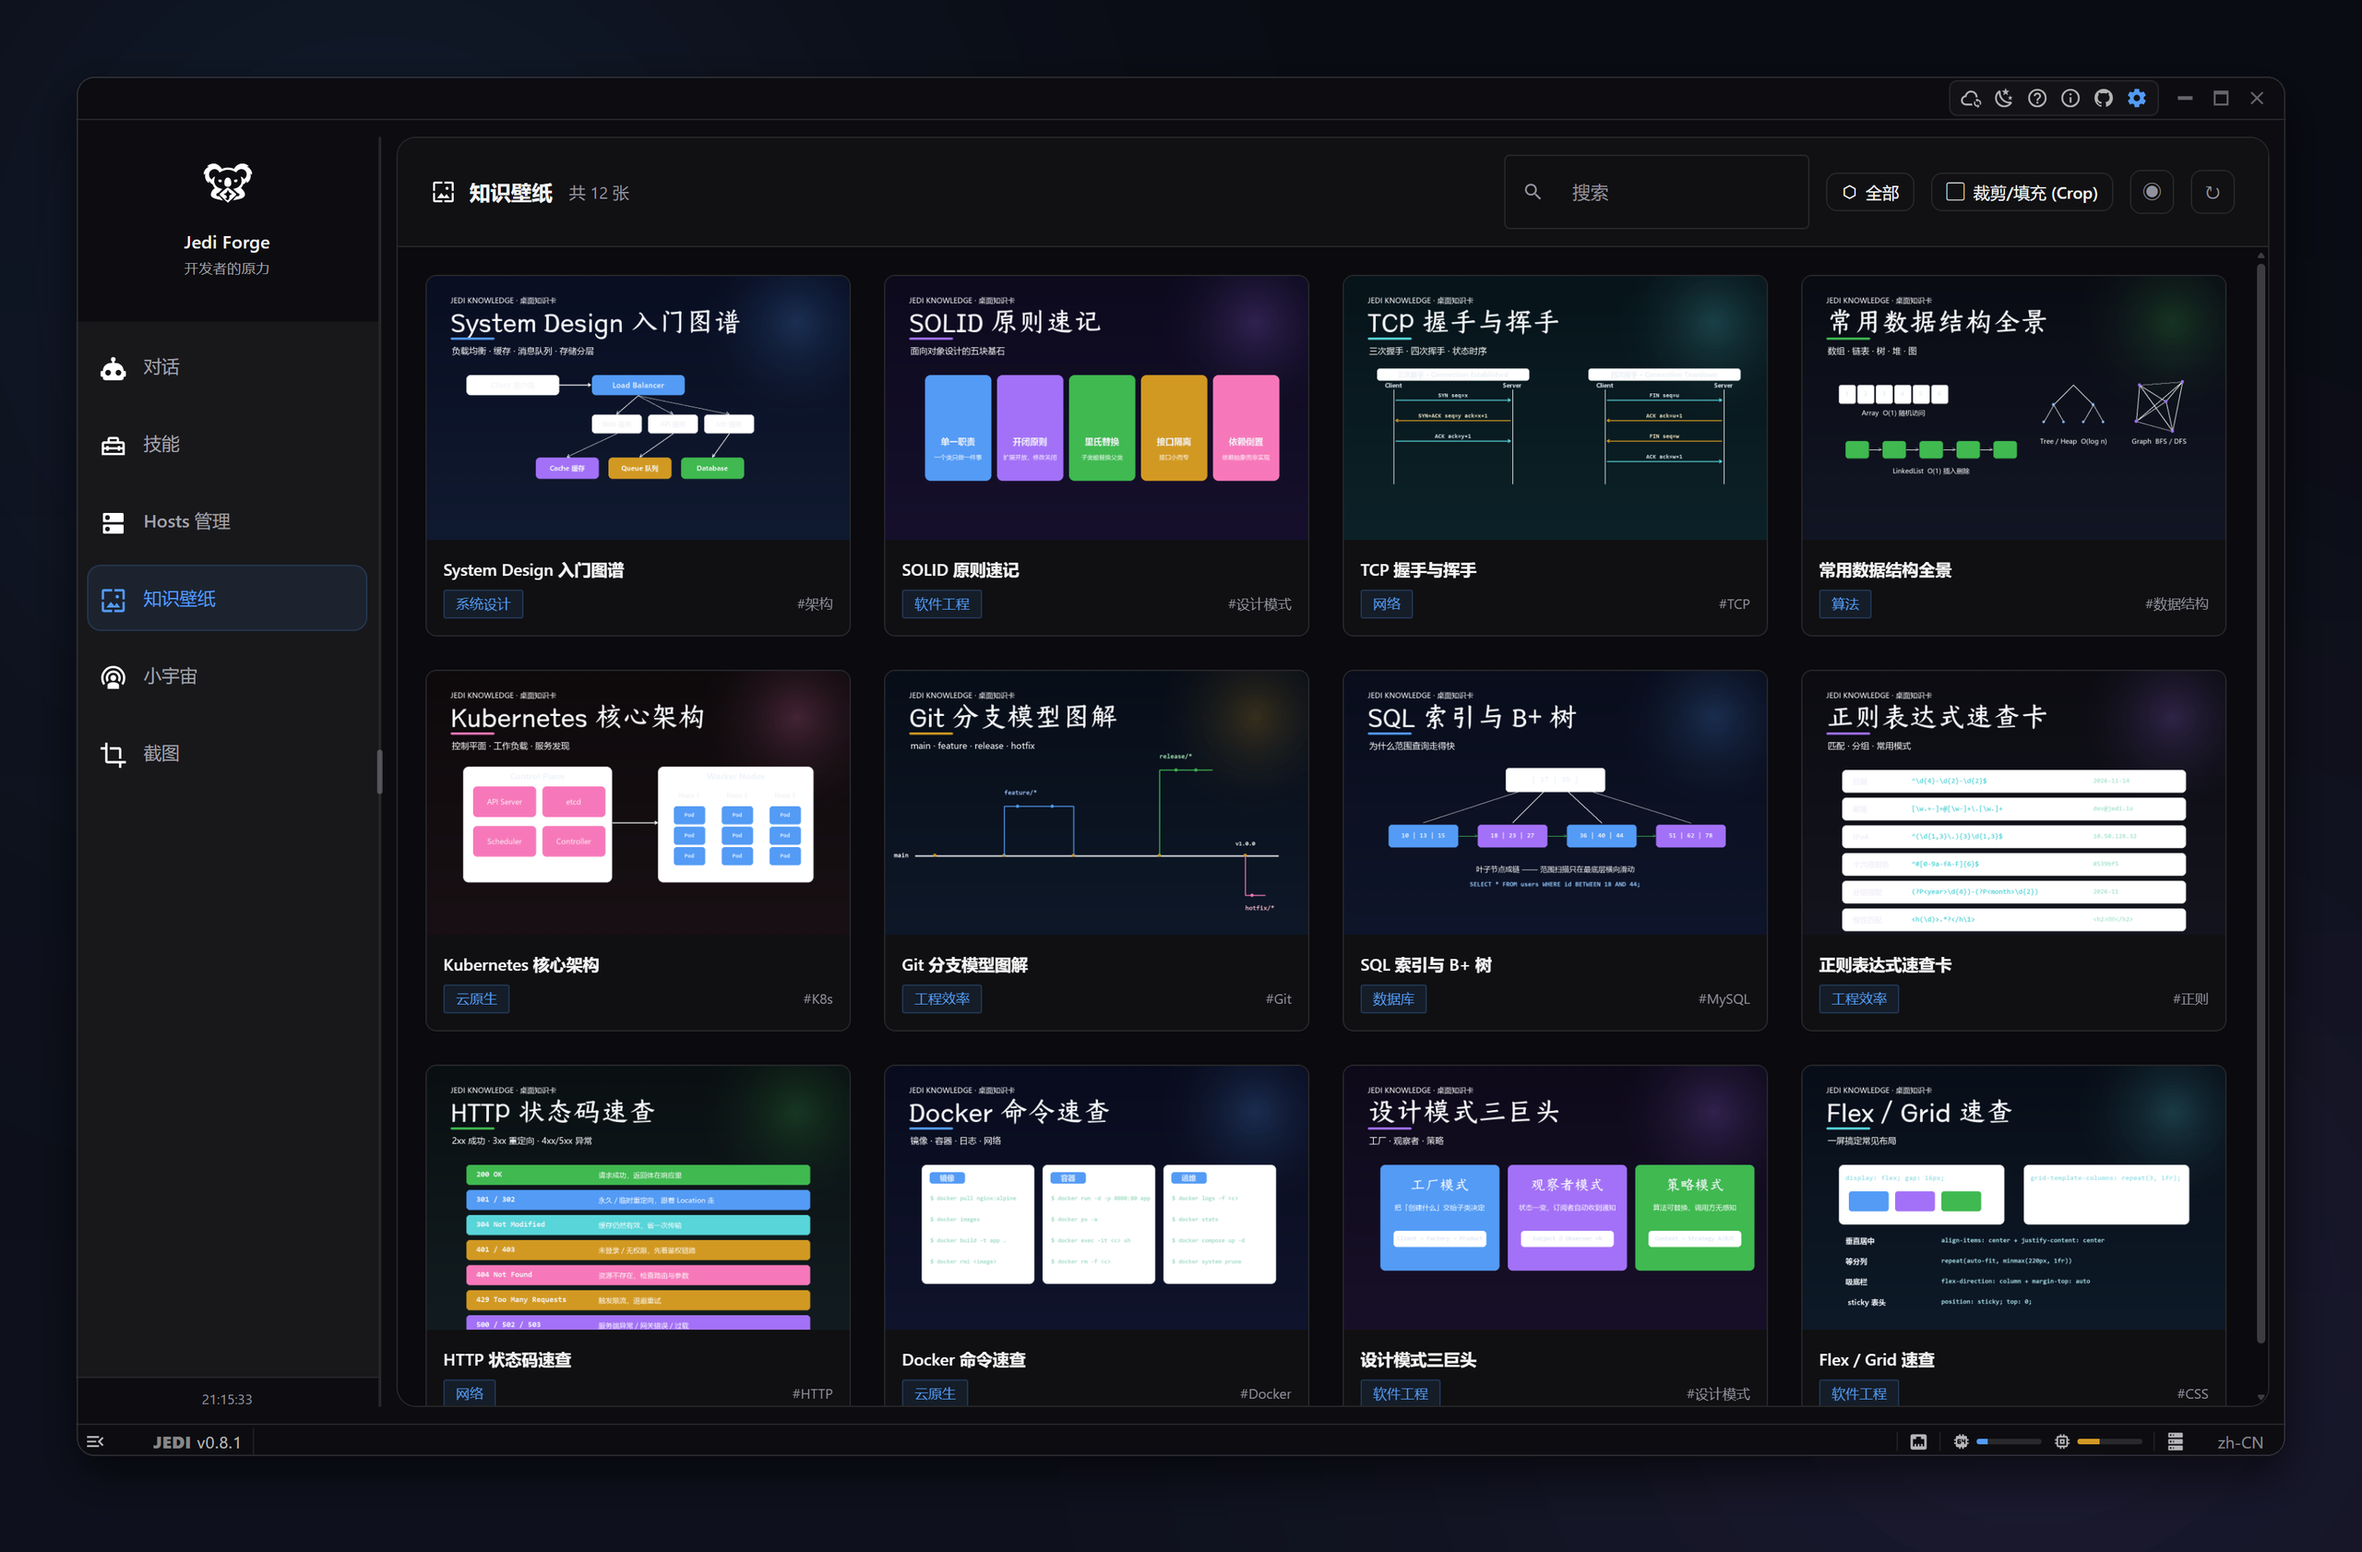
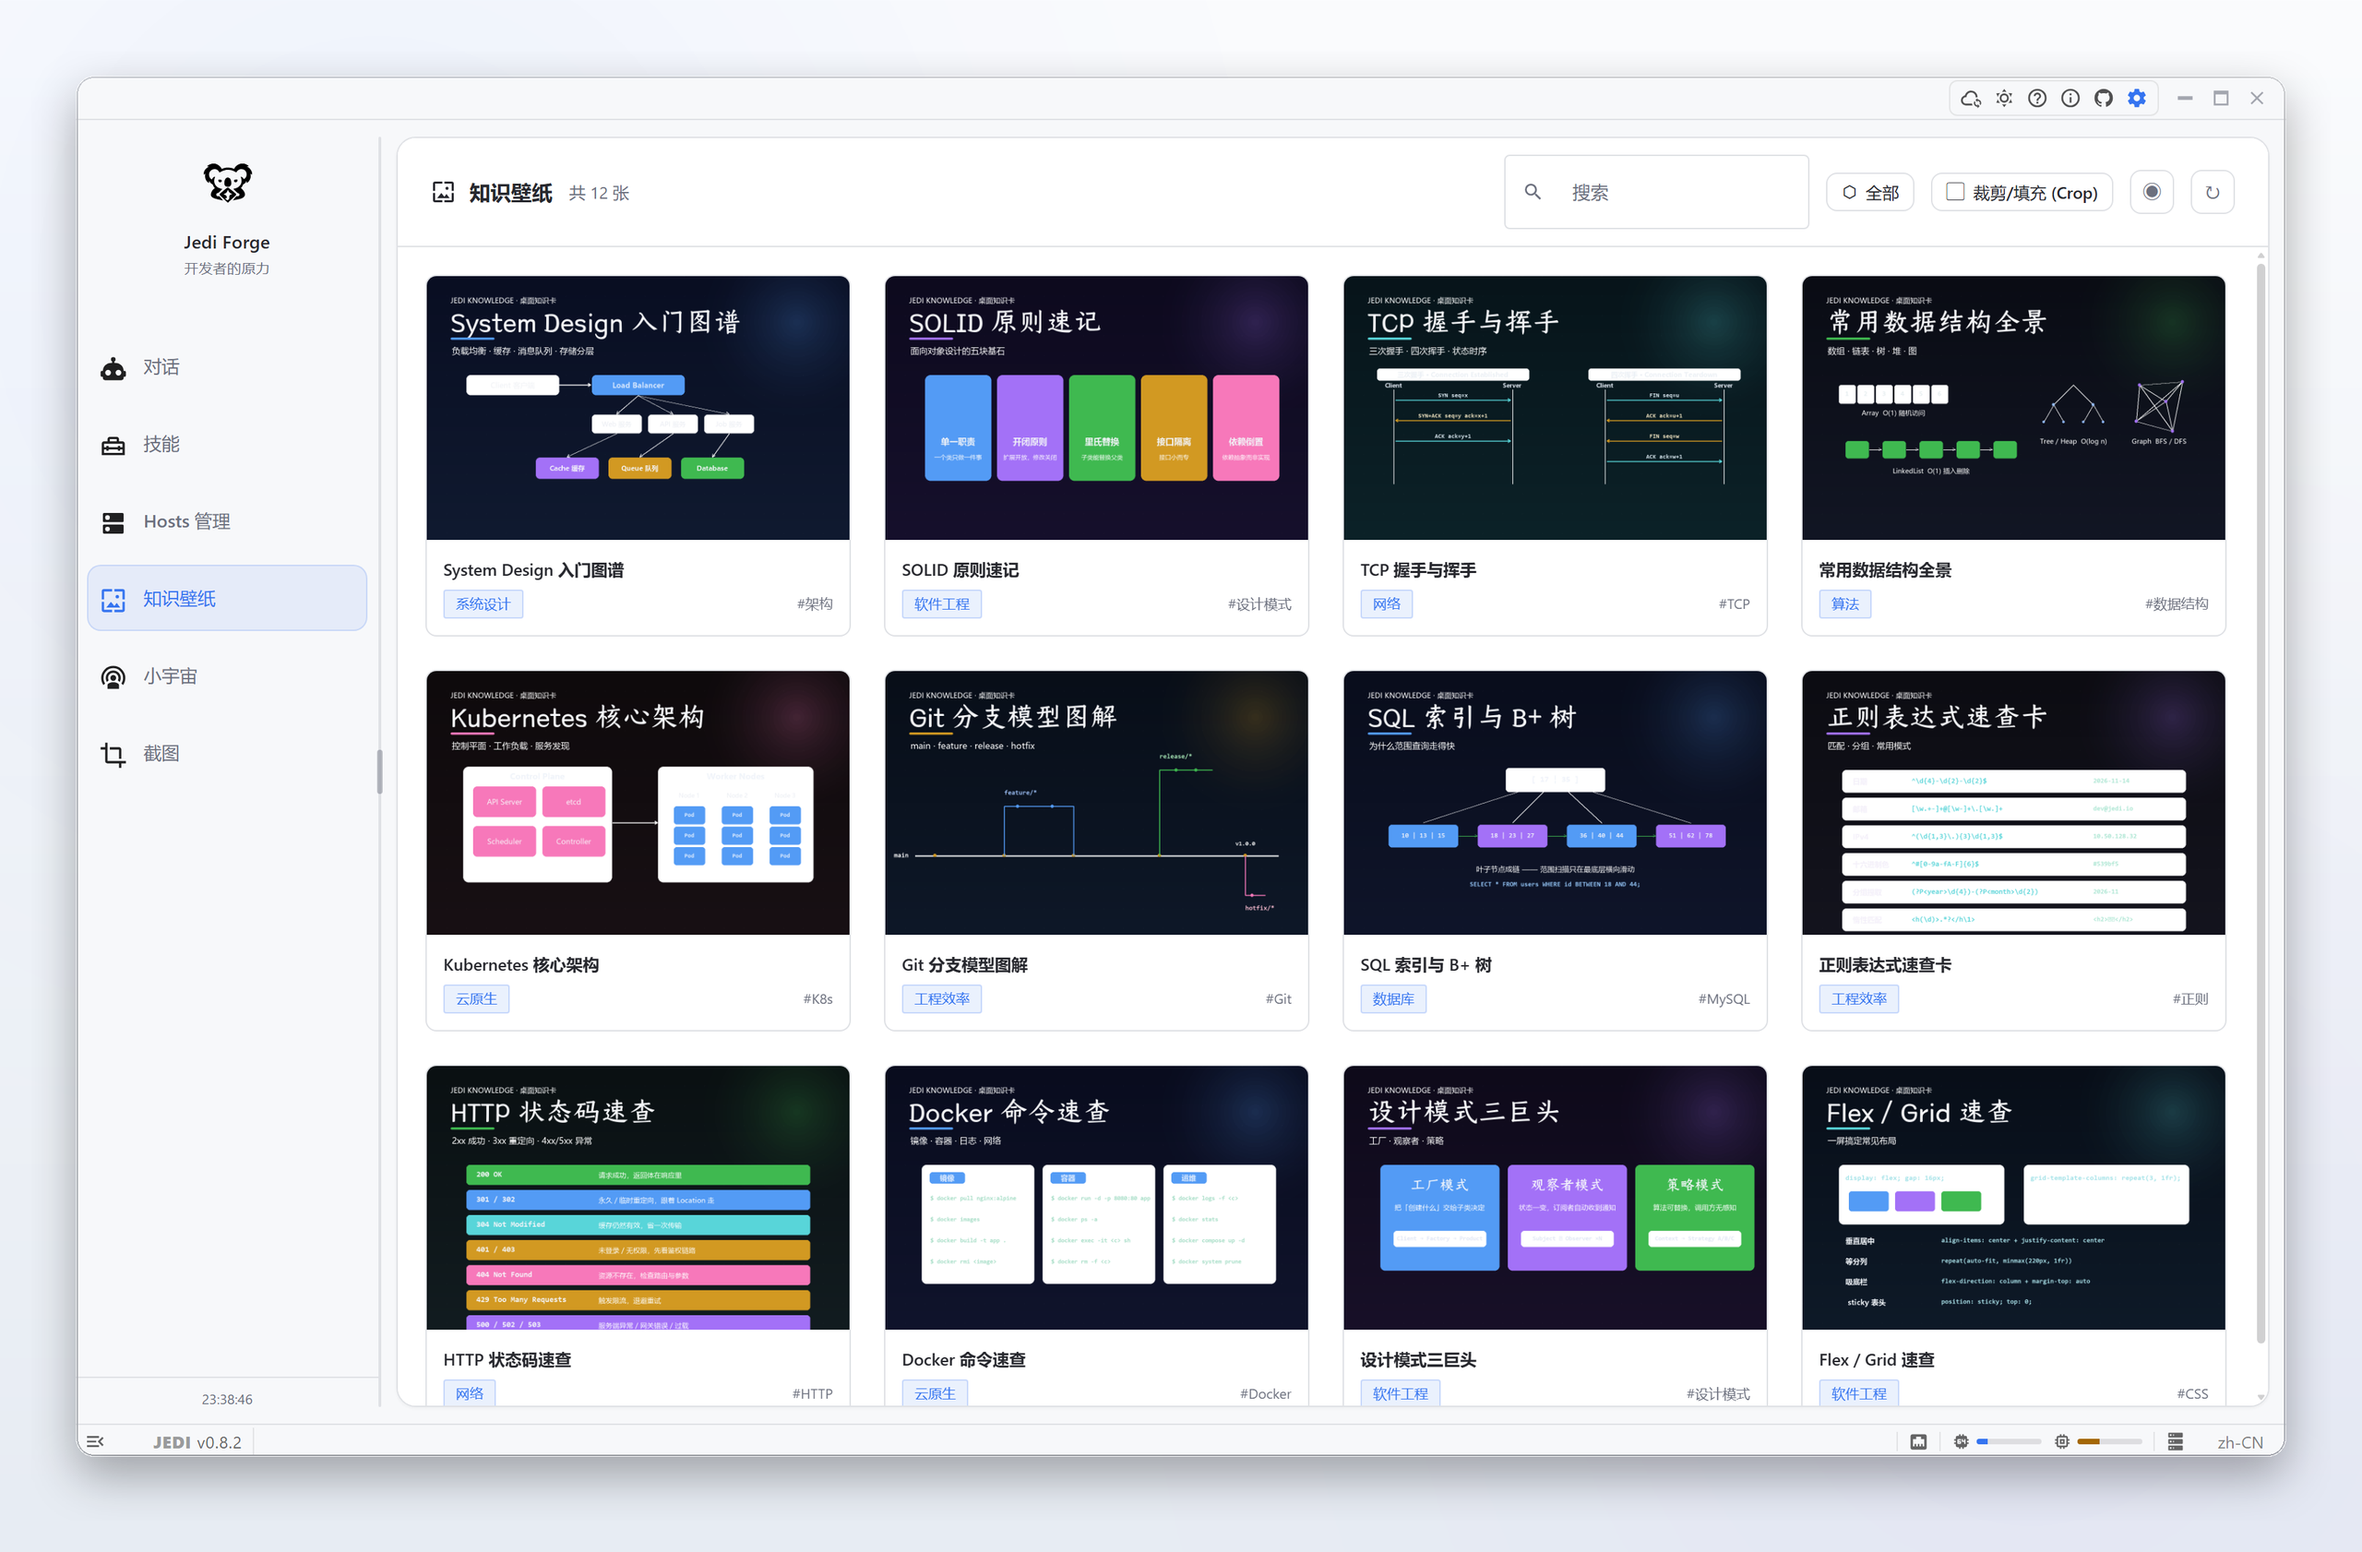
docs(screenshot): README 截图改用浅色主题
- rig mock 种子 theme-mode: dark → light，与应用浅色主题（JetBrains Int UI）一致
- compose 底板换浅色中性渐变 + 品牌蓝柔光，描边改深色发丝线

diff --git a/scripts/screenshot-rig/mock/tauri-mock.js b/scripts/screenshot-rig/mock/tauri-mock.js
@@ -19,7 +19,7 @@
 
   // ---------- seeded preferences (localStorage, JSON-encoded like useStorage) ----------
   const seed = {
-    'theme-mode': JSON.stringify('dark'),
+    'theme-mode': JSON.stringify('light'),
     language: JSON.stringify('zh'),
     'jedi-last-model': JSON.stringify({ providerId: 'openai', modelId: 'gpt-5.1' }),
     'agent-hub-engine': JSON.stringify('builtin'),

diff --git a/scripts/screenshot-rig/compose.py b/scripts/screenshot-rig/compose.py
@@ -1,8 +1,8 @@
 # -*- coding: utf-8 -*-
 """Compose raw rig screenshots into README-ready PNGs.
 
-Rounded window + hairline border + soft shadow on a dark brand backdrop
-(Jedi dark theme: bg #0d0d11, accent #539bf5 blue, accent-2 #a371f7 purple).
+Rounded window + hairline border + soft shadow on a light neutral backdrop
+(Jedi light theme: bg #ffffff, elevated #f7f8fa, accent #3574f0 blue).
 
 Run: python scripts/screenshot-rig/compose.py
 """
@@ -29,17 +29,17 @@ MAP = {
 MARGIN = 110          # backdrop padding around the window (2x scale)
 RADIUS = 26           # window corner radius
 BORDER = 2
-BORDER_ALPHA = 34
+BORDER_ALPHA = 46
 SHADOW_BLUR = 64
-SHADOW_ALPHA = 150
+SHADOW_ALPHA = 80
 SHADOW_OFFSET_Y = 28
 FINAL_WIDTH = 2560    # downscale target (crisp at GitHub display sizes)
 
 
 def backdrop(w, h):
-    """Dark gradient + two soft brand-color glows."""
+    """Light neutral gradient + soft brand-blue glows."""
     img = Image.new("RGB", (w, h))
-    top, bottom = (10, 12, 20), (15, 18, 30)
+    top, bottom = (251, 252, 254), (231, 236, 243)
     px = img.load()
     for y in range(h):
         t = y / max(1, h - 1)
@@ -47,8 +47,8 @@ def backdrop(w, h):
         for x in range(w):
             px[x, y] = row
     for center, radius, color, strength in (
-        ((int(w * 0.16), int(h * 0.18)), int(h * 0.75), (83, 155, 245), 34),
-        ((int(w * 0.86), int(h * 0.85)), int(h * 0.8), (163, 113, 247), 30),
+        ((int(w * 0.16), int(h * 0.18)), int(h * 0.75), (53, 116, 240), 22),
+        ((int(w * 0.86), int(h * 0.85)), int(h * 0.8), (131, 77, 240), 14),
     ):
         glow = Image.new("L", (w, h), 0)
         gd = ImageDraw.Draw(glow)
@@ -86,7 +86,7 @@ def compose(src_path, dest_path):
     ImageDraw.Draw(win).rounded_rectangle(
         [BORDER // 2, BORDER // 2, sw - 1 - BORDER // 2, sh - 1 - BORDER // 2],
         radius=RADIUS - BORDER // 2,
-        outline=(255, 255, 255, BORDER_ALPHA),
+        outline=(39, 40, 46, BORDER_ALPHA),
         width=BORDER,
     )
     canvas.alpha_composite(win, (MARGIN, MARGIN))
